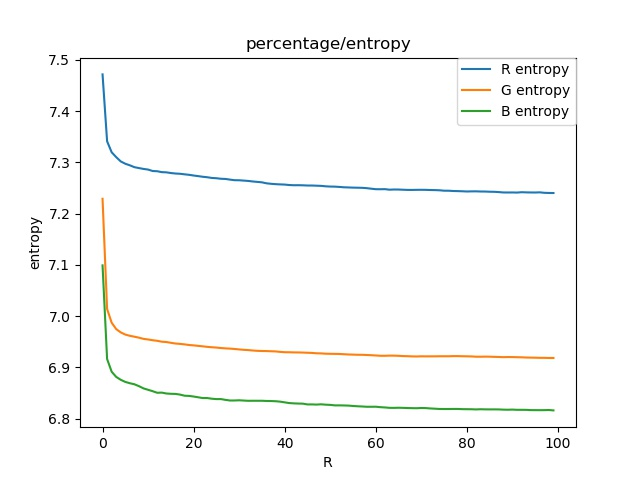
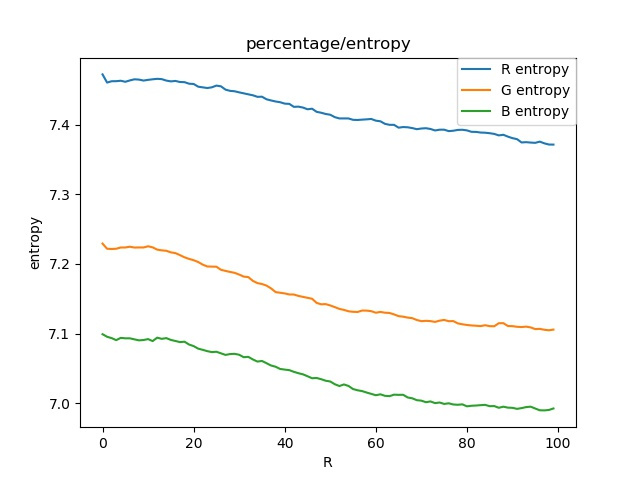
add plots fix

diff --git a/utils.py b/utils.py
@@ -329,7 +329,7 @@ class jpeg():
         entropy_list = []
         for percentage in range(0, 100, step):
             quantization_matrix = self.get_quantization_matrix(percentage)
-            DCT_after_full_quantization = self.full_dequantization(self.full_quantization(self.img_DCT, quantization_matrix, self.N), self.quantization_matrix, self.N)
+            DCT_after_full_quantization = self.full_dequantization(self.full_quantization(self.img_DCT, quantization_matrix, self.N), quantization_matrix, self.N)
             img_after_ok_compression = ycbcr2rgb(self.do_full_rev_DCT_transform(DCT_after_full_quantization, self.N) * 255)
             entropy_jpg = list(map(lambda i: entropy(img_after_ok_compression[:, :, i].reshape(-1)), list(range(3)) ))
             entropy_list.append(entropy_jpg)
@@ -362,7 +362,7 @@ class jpeg():
 
         for percentage in range(0, 100, step):
             quantization_matrix = self.get_quantization_matrix(percentage)
-            DCT_after_full_quantization = self.full_dequantization(self.full_quantization(img_DCT, quantization_matrix, self.N), self.quantization_matrix, self.N)
+            DCT_after_full_quantization = self.full_dequantization(self.full_quantization(img_DCT, quantization_matrix, self.N), quantization_matrix, self.N)
             img_after_ok_compression = ycbcr2rgb(self.do_full_rev_DCT_transform(DCT_after_full_quantization, self.N) * 255) / 255
             PSNR_jpg = psnr(img_after_ok_compression, ref)
             PSNR.append(PSNR_jpg)
